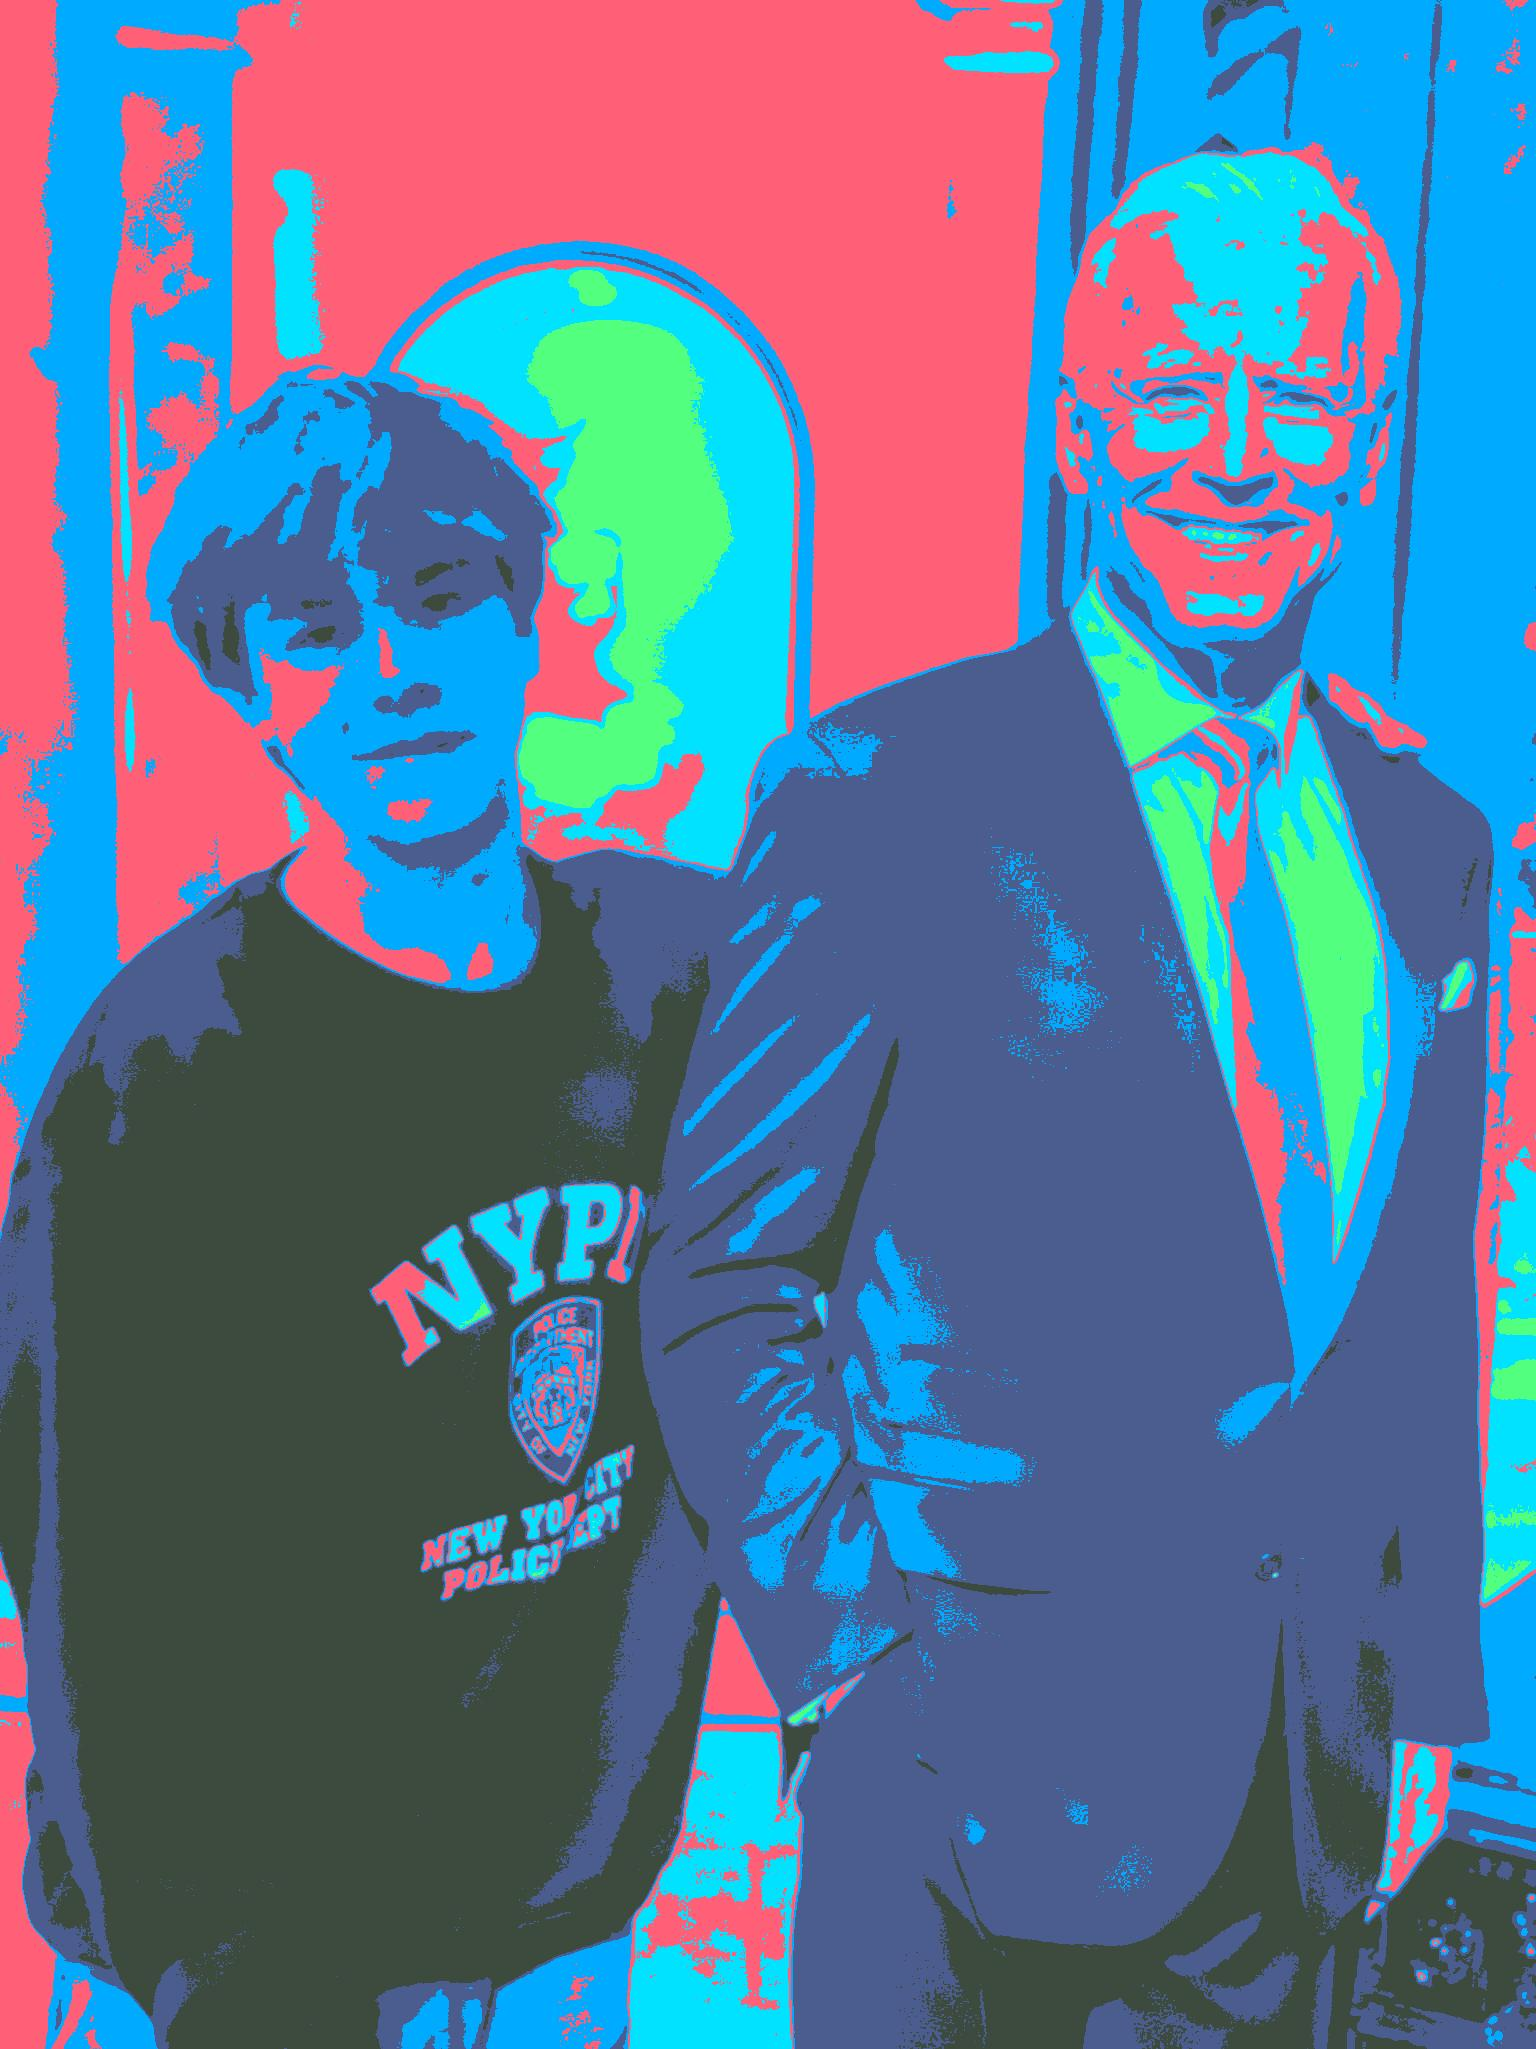
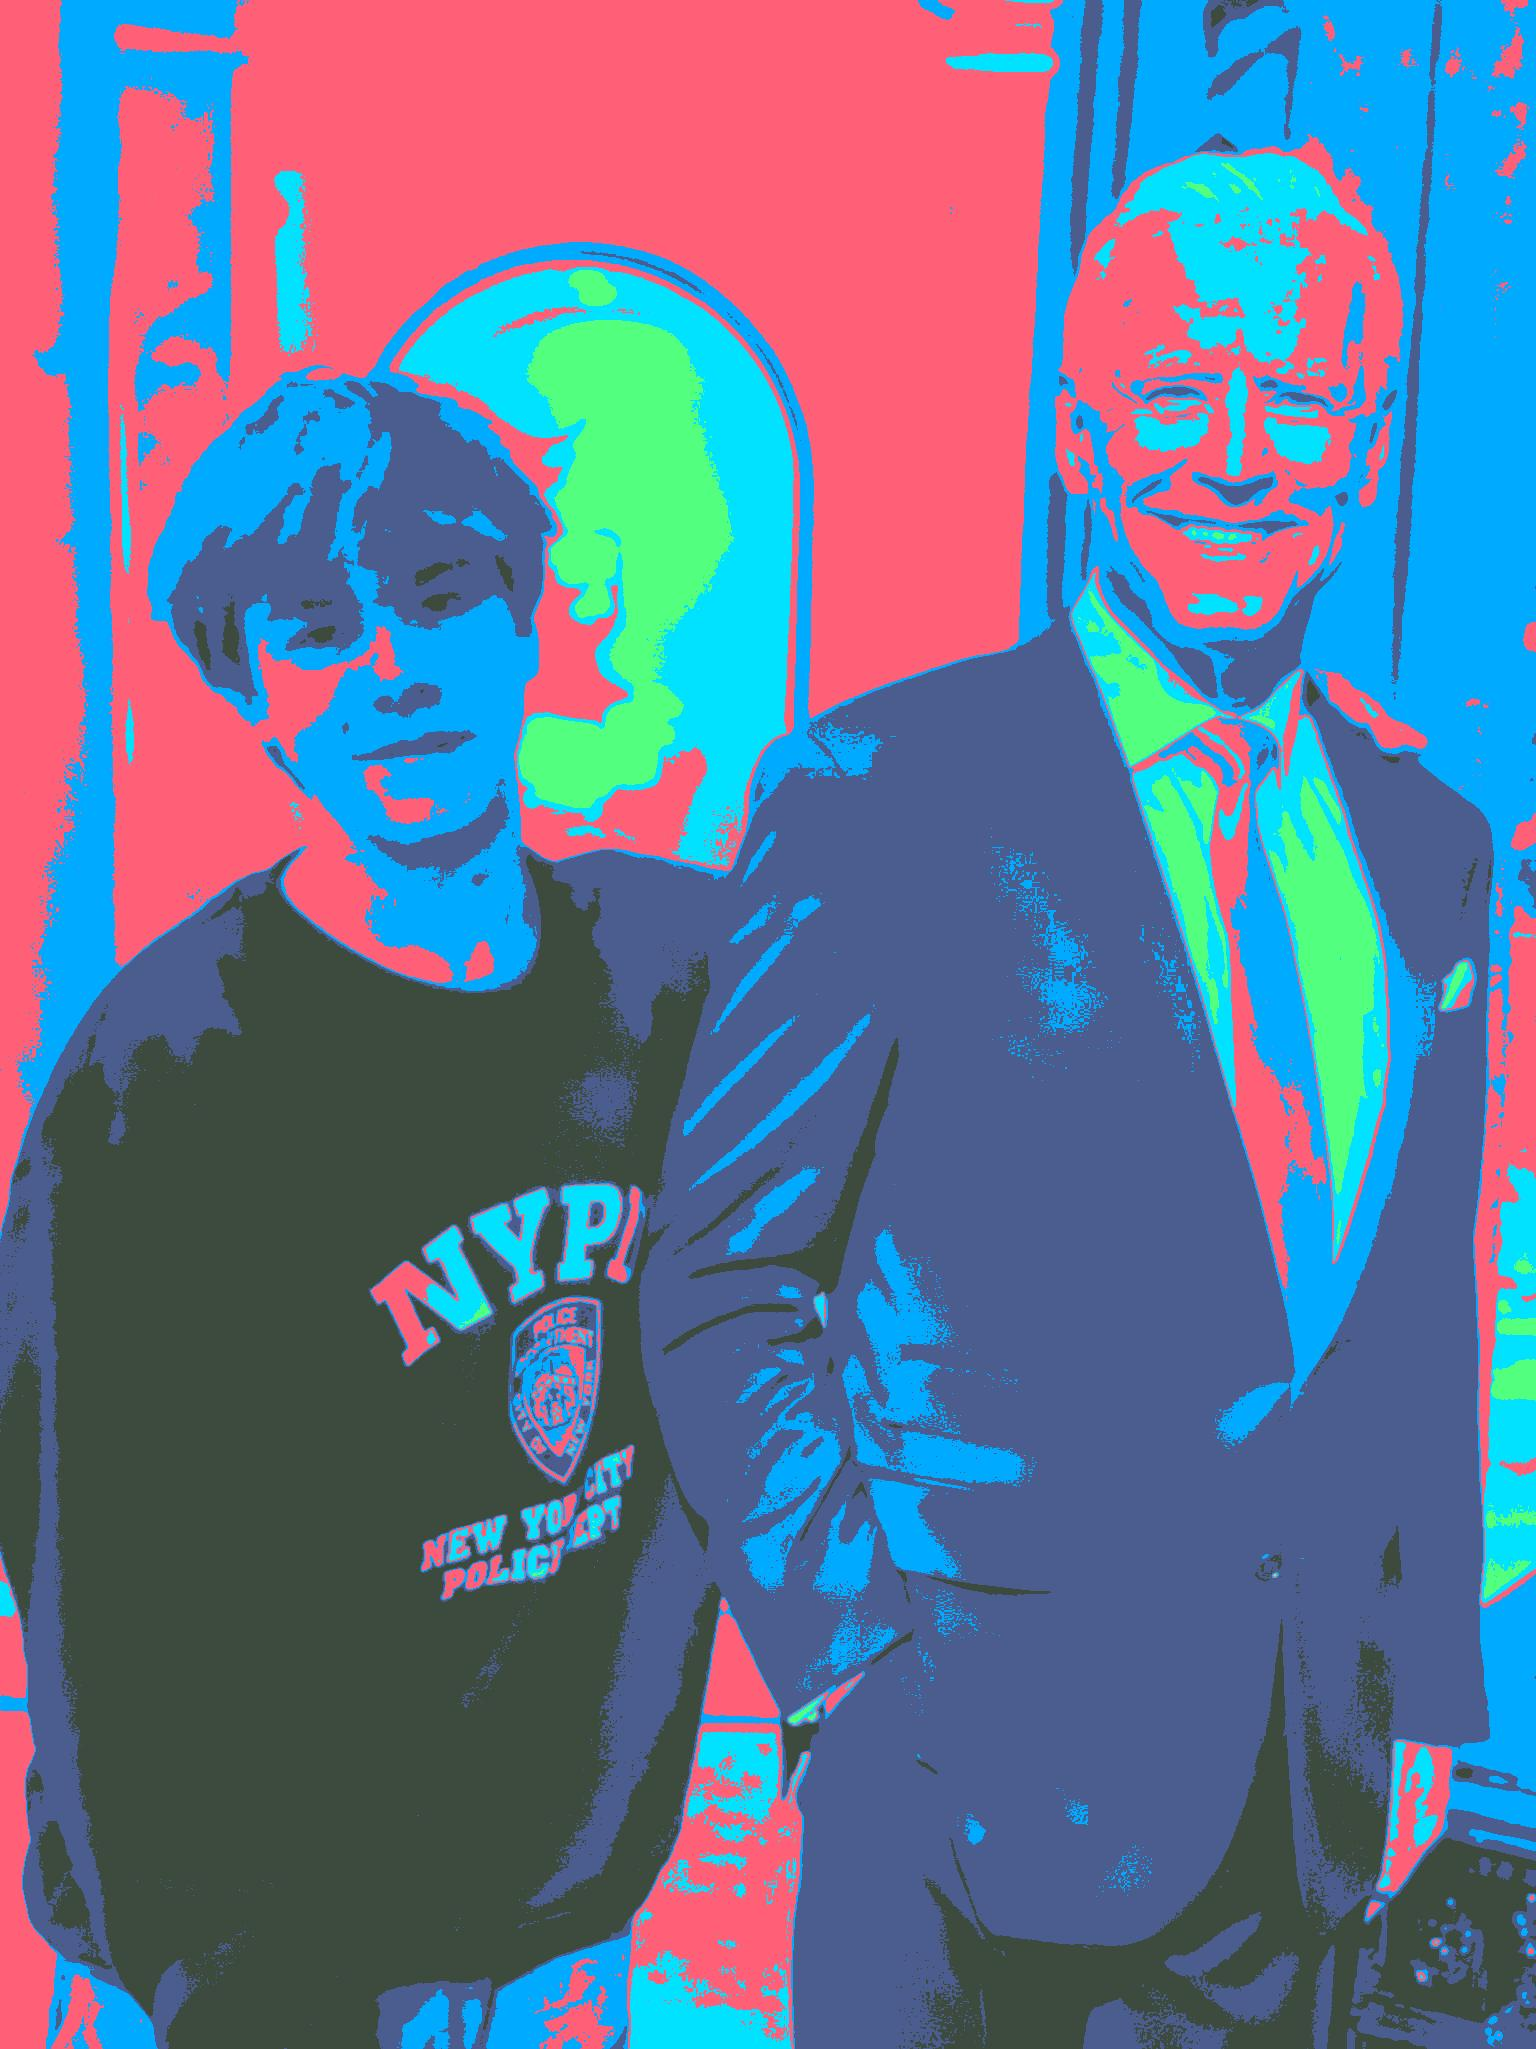
11/14/22

diff --git a/ColorLabs17/SheparFaireyLab.java b/ColorLabs17/SheparFaireyLab.java
@@ -34,12 +34,13 @@ public class SheparFaireyLab
          Color color6 = new Color(47 + add, 72 + add, 88 + add);
          */
          
-         Color color1 = new Color(82 + add, 255 + add, 127 + add);
-         Color color2 = new Color(0 + add, 226 + add, 255 + add);
-         Color color3 = new Color(255 + add, 95 + add, 119 + add);
-         Color color4 = new Color(0 + add, 170 + add, 255 + add);
-         Color color5 = new Color(74 + add, 93 + add, 142 + add);
-         Color color6 = new Color(61 + add, 74 + add, 62 + add);
+         // Color color1 = new Color(82 + add, 255 + add, 127 + add); // light green
+         Color color2 = new Color(0 + add, 226 + add, 255 + add);  // light blue
+         Color color3 = new Color(0 + add, 255 + add, 50 + add); // green
+         Color color1 = new Color(255 + add, 182 + add, 193 + add); // light pink
+         Color color4 = new Color(0 + add, 170 + add, 255 + add); // blue
+         Color color5 = new Color(74 + add, 93 + add, 142 + add); // navy blue
+         Color color6 = new Color(61 + add, 74 + add, 62 + add); // dark green
          /**
           * method 1 change
           */
@@ -150,10 +151,10 @@ public class SheparFaireyLab
                 s = currIntensity;
         }
         totalminmax = b - s;
-        bucket2max = ((totalminmax / 6) * 5) + s;
+        bucket2max = ((totalminmax / 6) * 5) + s - 55;
         bucket3max = ((totalminmax / 6) * 4) + s;
-        bucket4max = ((totalminmax / 6) * 3) + s;
-        bucket5max = ((totalminmax / 6) * 2) + s;
+        bucket4max = ((totalminmax / 6) * 3) + s - 20;
+        bucket5max = ((totalminmax / 6) * 2) + s + 20;
         bucket6max = ((totalminmax / 6) * 1) + s;
         for (Pixel spot : pixels3)
         {
@@ -187,6 +188,6 @@ public class SheparFaireyLab
             }
         }
         me3.explore();
-        me3.write("images/sfTry2.jpg");
+        //me3.write("images/sfTry3.jpg");
     }//main       
 }//class
